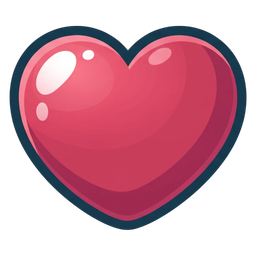
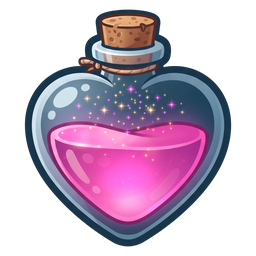
Iksir tarifi (sirali, tamamlaninca kazana +1 yuva), cadi temali ses efektleri, can ikonu (kalp iksir), Reklamlari Kaldir kalici

diff --git a/js/audio.js b/js/audio.js
@@ -43,21 +43,73 @@
     o.start(start); o.stop(start + dur + 0.05);
   }
 
+  // Filtrelenmiş kısa gürültü patlaması ("puf", "fış" sesleri için)
+  var noiseBuf = null;
+  function noise(start, dur, opts) {
+    opts = opts || {};
+    if (!noiseBuf) {
+      noiseBuf = ctx.createBuffer(1, ctx.sampleRate, ctx.sampleRate);
+      var d = noiseBuf.getChannelData(0);
+      for (var i = 0; i < d.length; i++) d[i] = Math.random() * 2 - 1;
+    }
+    var src = ctx.createBufferSource(), f = ctx.createBiquadFilter(), g = ctx.createGain();
+    src.buffer = noiseBuf;
+    f.type = opts.filter || "bandpass";
+    f.frequency.setValueAtTime(opts.freq || 1200, start);
+    if (opts.freqTo) f.frequency.exponentialRampToValueAtTime(opts.freqTo, start + dur);
+    f.Q.value = opts.q || 1;
+    g.gain.setValueAtTime(0.0001, start);
+    g.gain.exponentialRampToValueAtTime(opts.vol || 0.2, start + (opts.attack || 0.02));
+    g.gain.exponentialRampToValueAtTime(0.0001, start + dur);
+    src.connect(f); f.connect(g); g.connect(sfxGain);
+    src.start(start); src.stop(start + dur + 0.05);
+  }
+
+  // Cadı teması: D minör pentatonik (D F G A C) — müzikle aynı renk
   var SFX = {
-    // Taşa dokunma: yumuşak kabarcık "blup"
-    tap: function (t) { tone(420, t, 0.12, { slideTo: 780, vol: 0.25 }); },
-    // Üçleme: yükselen parlak arpej
+    // Taşa dokunma: tahta "tok" + minik alçak fokurtu
+    tap: function (t) {
+      tone(310, t, 0.07, { type: "triangle", vol: 0.22, attack: 0.003 });
+      tone(180, t + 0.02, 0.1, { slideTo: 300, vol: 0.12 });
+    },
+    // Üçleme: büyülü çan + parıltı
     match: function (t) {
-      [660, 880, 1320].forEach(function (f, i) { tone(f, t + i * 0.06, 0.25, { type: "triangle", vol: 0.2 }); });
+      [587.3, 880, 1174.7].forEach(function (f, i) {
+        tone(f, t + i * 0.05, 0.5, { vol: 0.16, attack: 0.004 });
+        tone(f * 2, t + i * 0.05, 0.25, { vol: 0.04, attack: 0.004 });
+      });
+      noise(t, 0.35, { filter: "highpass", freq: 6000, vol: 0.04 });
     },
-    joker: function (t) { tone(300, t, 0.3, { slideTo: 900, type: "triangle", vol: 0.2 }); },
-    click: function (t) { tone(600, t, 0.06, { vol: 0.15 }); },
-    error: function (t) { tone(200, t, 0.18, { type: "square", vol: 0.08 }); },
+    // Joker: "puf" diye büyü dumanı + yükselen ıslık
+    joker: function (t) {
+      noise(t, 0.4, { freq: 400, freqTo: 2500, q: 0.8, vol: 0.25 });
+      tone(440, t + 0.05, 0.35, { slideTo: 1320, type: "triangle", vol: 0.1 });
+    },
+    click: function (t) { tone(520, t, 0.05, { type: "triangle", vol: 0.14, attack: 0.002 }); },
+    // Hata: boğuk, alçak "tımp"
+    error: function (t) { tone(140, t, 0.2, { slideTo: 100, vol: 0.2 }); },
+    // Tarifte bir adım: küçük çan
+    recipeStep: function (t) {
+      tone(1174.7, t + 0.12, 0.6, { vol: 0.12, attack: 0.003 });
+      tone(1760, t + 0.2, 0.5, { vol: 0.08, attack: 0.003 });
+    },
+    // Tarif tamam: yukarı doğru parıltılı glissando
+    recipe: function (t) {
+      [587.3, 698.5, 784, 880, 1046.5, 1174.7, 1396.9].forEach(function (f, i) {
+        tone(f, t + 0.1 + i * 0.05, 0.4, { vol: 0.1, attack: 0.003 });
+      });
+      noise(t + 0.1, 0.6, { filter: "highpass", freq: 7000, vol: 0.05 });
+    },
+    // Kazandın: D minör arpej, sonunda D majöre "büyülü" çözülme
     win: function (t) {
-      [523, 659, 784, 1046, 1318].forEach(function (f, i) { tone(f, t + i * 0.1, 0.5, { type: "triangle", vol: 0.2 }); });
+      [293.7, 349.2, 440, 587.3].forEach(function (f, i) { tone(f, t + i * 0.11, 0.5, { type: "triangle", vol: 0.16 }); });
+      [293.7, 370, 440, 587.3].forEach(function (f) { tone(f, t + 0.5, 1.4, { vol: 0.1, attack: 0.02 }); });
+      tone(1174.7, t + 0.55, 1.2, { vol: 0.06, attack: 0.005 });
     },
+    // Kaybettin: iksir "fısss" diye söner, inen boğuk notalar
     lose: function (t) {
-      [392, 330, 262].forEach(function (f, i) { tone(f, t + i * 0.18, 0.45, { type: "sine", vol: 0.22 }); });
+      noise(t, 0.7, { freq: 3000, freqTo: 300, q: 0.7, vol: 0.18 });
+      [349.2, 293.7, 220].forEach(function (f, i) { tone(f, t + 0.15 + i * 0.2, 0.5, { vol: 0.16 }); });
     }
   };
 

diff --git a/js/game.js b/js/game.js
@@ -3,6 +3,7 @@
   var boardEl = document.getElementById("board");
   var wrapEl = document.getElementById("boardWrap");
   var trayEl = document.getElementById("tray");
+  var recipeEl = document.getElementById("recipe");
   var bankEl = document.getElementById("bank");
 
   var S = null;        // aktif seviyenin durumu
@@ -26,6 +27,7 @@
       pickSeq: 0,          // sepete atılma sırası (devam ederken en son atılanları bulmak için)
       history: [],         // Geri Al için: sepete atılan son taşlar
       flying: 0,           // uçuş animasyonu süren taş sayısı
+      recipe: makeRecipe(level, built.tiles),
       over: false
     };
     document.getElementById("gameLevel").textContent = level;
@@ -33,8 +35,48 @@
     renderBoard();
     renderTray();
     renderBank();
+    renderRecipe();
     RT.game.renderJokers();
   };
+
+  // ---------- İksir tarifi ----------
+  // Her seviyede sıralı bir tarif: 2 malzeme (10. seviyeden sonra 3), her biri
+  // 1 üçleme. Yalnızca sırası gelen malzemenin eşleşmesi tarifi ilerletir.
+  // Tamamlanınca bu seviye için kazan 1 yuva büyür (bonus; zorunlu değil).
+  function makeRecipe(level, tiles) {
+    var types = [];
+    tiles.forEach(function (t) { if (types.indexOf(t.type) === -1) types.push(t.type); });
+    var steps = RT.shuffle(types).slice(0, level >= 10 ? 3 : 2);
+    return { steps: steps, done: 0, complete: false };
+  }
+
+  function renderRecipe(justDone) {
+    var R = S.recipe;
+    recipeEl.innerHTML = '<span class="r-label">' + RT.t("recipe") + "</span>" +
+      R.steps.map(function (type, i) {
+        var cls = i < R.done ? "done" : (i === R.done ? "next" : "");
+        if (i === justDone) cls += " pop";
+        return (i ? '<i class="r-arrow">›</i>' : "") +
+          '<span class="r-step ' + cls + '">' + RT.tileImg(type, "r-img") + "</span>";
+      }).join("");
+    recipeEl.classList.toggle("complete", R.complete);
+  }
+
+  function recipeMatched(type) {
+    var R = S.recipe;
+    if (R.complete || R.steps[R.done] !== type) return;
+    R.done++;
+    if (R.done === R.steps.length) {
+      R.complete = true;
+      S.trayMax += 1;
+      layout(); renderTray();
+      RT.sfx("recipe");
+      RT.ui.toast(RT.t("recipeDone"));
+    } else {
+      RT.sfx("recipeStep");
+    }
+    renderRecipe(R.done - 1);
+  }
 
   RT.game.isActive = function () { return S && !S.over; };
 
@@ -165,6 +207,7 @@
       RT.sfx("match");
       popEffect();
       renderBank();
+      recipeMatched(type);
     }
   }
 

diff --git a/js/i18n.js b/js/i18n.js
@@ -42,10 +42,12 @@ RT.STRINGS = {
     jokerEmptyTitle: "Joker Bitti", jokerEmptyText: "{name} jokerinden 1 adet al?",
     buyFor: "{c} 🪙 ile Al",
     watchAdJoker: "Reklam İzle (+1 joker)", jokerAdDone: "+1 joker kazandın!", yourCoins: "Bakiyen:",
-    noAdsTitle: "Reklamları Kaldır", noAdsText: "Oyna'ya basınca çıkan reklamlar bir daha çıkmaz.",
+    noAdsTitle: "Reklamları Kaldır", noAdsText: "Oyna'ya basınca çıkan reklamlar kalıcı olarak kalkar.",
     noAdsBought: "Reklamlar kaldırıldı (test)", noAdsOwned: "Reklamsız ✓",
     adFullTitle: "Tam ekran reklam", adFullNote: "Test: gerçek reklam mağaza sürümünde gösterilecek.",
     adTag: "REKLAM", adSkipIn: "Reklamı geç ({s})", adSkip: "Reklamı Geç",
+    recipe: "Tarif", recipeDone: "Tarif tamam! Kazana +1 yuva 🧪",
+    t6Title: "İksir Tarifi", t6Text: "Üstteki tarifi sırayla eşleştir. Sırası gelen malzemenin üçlemesini yaparsan tarif ilerler; tamamlarsan kazanın bu seviye için 1 yuva büyür!",
     nothingToUndo: "Geri alınacak hamle yok",
     trayEmpty: "Kazan boş",
     alreadyExpanded: "Kazan bu seviyede zaten genişletildi",
@@ -100,10 +102,12 @@ RT.STRINGS = {
     jokerEmptyTitle: "Out of Joker", jokerEmptyText: "Buy 1 {name} joker?",
     buyFor: "Buy for {c} 🪙",
     watchAdJoker: "Watch Ad (+1 joker)", jokerAdDone: "+1 joker earned!", yourCoins: "Balance:",
-    noAdsTitle: "Remove Ads", noAdsText: "No more ads when you press Play.",
+    noAdsTitle: "Remove Ads", noAdsText: "Ads when you press Play are gone for good.",
     noAdsBought: "Ads removed (test)", noAdsOwned: "Ad-free ✓",
     adFullTitle: "Full-screen ad", adFullNote: "Test: real ads appear in the store version.",
     adTag: "AD", adSkipIn: "Skip ad ({s})", adSkip: "Skip Ad",
+    recipe: "Recipe", recipeDone: "Recipe complete! +1 cauldron slot 🧪",
+    t6Title: "Potion Recipe", t6Text: "Match the recipe at the top in order. Make a triple of the next ingredient to advance; finish it and your cauldron grows 1 slot for this level!",
     nothingToUndo: "Nothing to undo",
     trayEmpty: "Cauldron is empty",
     alreadyExpanded: "Cauldron already expanded this level",

diff --git a/css/style.css b/css/style.css
@@ -253,6 +253,31 @@ img { -webkit-user-drag: none; user-select: none; }
 @keyframes shake { 25% { transform: rotate(-2deg); } 50% { transform: rotate(2deg); } 75% { transform: rotate(-1deg); } }
 .flyer { position: fixed; z-index: 9999; pointer-events: none; --tile: 44px; }
 
+/* ---------- İksir tarifi şeridi ---------- */
+.recipe {
+  align-self: center; display: flex; align-items: center; gap: 6px;
+  margin: 0 12px 2px; padding: 5px 12px 5px 10px; border-radius: 16px;
+  background: linear-gradient(#fff6de, #efd9a6); border: 2.5px solid var(--outline);
+  box-shadow: 0 4px 0 var(--outline); transition: background .3s;
+}
+.recipe .r-label { font-weight: 800; font-size: 15px; color: var(--outline); margin-right: 2px; }
+.recipe .r-arrow { font-style: normal; font-weight: 800; color: #a8895a; }
+.r-step {
+  width: 38px; height: 38px; border-radius: 10px; display: grid; place-items: center;
+  background: rgba(255,255,255,.6); border: 2px dashed #c9ad7a; position: relative;
+  filter: grayscale(.6) opacity(.7);
+}
+.r-step .r-img { width: 84%; height: 84%; object-fit: contain; }
+.r-step.next { filter: none; border: 2px solid var(--coral); box-shadow: 0 0 0 3px rgba(255,138,61,.3); animation: bob 1.6s ease-in-out infinite; }
+.r-step.done { filter: none; border: 2px solid #3fb950; background: #e6ffe9; }
+.r-step.done::after {
+  content: "✓"; position: absolute; right: -6px; bottom: -6px; width: 18px; height: 18px; border-radius: 50%;
+  background: #3fb950; color: var(--white); font-size: 12px; font-weight: 800; display: grid; place-items: center;
+  border: 2px solid var(--outline);
+}
+.r-step.pop { animation: pop .35s; }
+.recipe.complete { background: linear-gradient(#e6ffe9, #b9f0c4); }
+
 /* ---------- Bekleme alanı (Kepçeyle Al) ---------- */
 .bank {
   display: flex; justify-content: center; gap: 6px; min-height: 0; height: 0;

diff --git a/index.html b/index.html
@@ -10,7 +10,7 @@
   <link rel="manifest" href="manifest.webmanifest">
   <link rel="preconnect" href="https://fonts.googleapis.com">
   <link href="https://fonts.googleapis.com/css2?family=Baloo+2:wght@500;700;800&display=swap" rel="stylesheet">
-  <link rel="stylesheet" href="css/style.css?v=8">
+  <link rel="stylesheet" href="css/style.css?v=10">
 </head>
 <body>
   <!-- Arka plan: gece moru gradyan + yükselen kazan kabarcıkları (dekoratif) -->
@@ -65,6 +65,9 @@
         </div>
       </header>
 
+      <!-- İksir tarifi: sırayla eşleştirilecek malzemeler -->
+      <div id="recipe" class="recipe"></div>
+
       <div id="boardWrap"><div id="board"></div></div>
 
       <!-- Kepçeyle Al jokeriyle çıkarılan, eşlerini bekleyen kilitli taşlar -->
@@ -89,11 +92,11 @@
     <div id="toast" class="toast" hidden></div>
   </div>
 
-  <script src="js/i18n.js?v=8"></script>
-  <script src="js/storage.js?v=8"></script>
-  <script src="js/audio.js?v=8"></script>
-  <script src="js/level.js?v=8"></script>
-  <script src="js/game.js?v=8"></script>
-  <script src="js/ui.js?v=8"></script>
+  <script src="js/i18n.js?v=10"></script>
+  <script src="js/storage.js?v=10"></script>
+  <script src="js/audio.js?v=10"></script>
+  <script src="js/level.js?v=10"></script>
+  <script src="js/game.js?v=10"></script>
+  <script src="js/ui.js?v=10"></script>
 </body>
 </html>

diff --git a/js/ui.js b/js/ui.js
@@ -394,6 +394,7 @@
       { e: '<span class="t-tray">' + ["frog", "frog", "bat", "potion", "potion", "eye"].map(function (n) { return RT.tileImg(n, "t-mini"); }).join("") + "<i></i></span>", k: "t2" },
       { e: '<span class="t-layers"><b>' + RT.tileImg("owl", "t-face") + '</b><b class="dim">' + RT.tileImg("candle", "t-face") + "</b></span>", k: "t3" },
       { e: "", k: "t4", extra: J("undo", "jUndo", "t4Undo") + J("remove", "jRemove", "t4Remove") + J("shuffle", "jShuffle", "t4Shuffle") + J("expand", "jExpand", "t4Expand") },
+      { e: '<span class="recipe t-recipe"><span class="r-step done">' + RT.tileImg("frog", "r-img") + '</span><i class="r-arrow">›</i><span class="r-step next">' + RT.tileImg("bat", "r-img") + '</span><i class="r-arrow">›</i><span class="r-step">' + RT.tileImg("potion", "r-img") + "</span></span>", k: "t6" },
       { e: "🏆", k: "t5" }
     ];
     var s = steps[step], last = step === steps.length - 1;

diff --git a/PLAN.md b/PLAN.md
@@ -14,7 +14,8 @@ Yanglegeyang tarzı üçlü eşleştirme oyunu. Kardeş proje "Triple Match – 
 - **Reklamları Kaldır:** Var, tek seferlik satın alım. Zorunlu reklamları kaldırır; ödüllü reklamlar kalır.
 - **Ekonomi:** Jokerler coinle veya ödüllü reklamla alınır (ödüllü reklam, kullanıcının onayladığı ücretsiz kaynak). Coin başka ücretsiz yoldan verilmez.
 - **Can (sonradan eklendi, 2026-09-25):** Yumuşak can sistemi: en fazla 5 can, 20 dakikada 1 can dolar, yalnızca kaybedince 1 can gider (seviyeden çıkmak can götürmez). Can: reklamla +1 (sınırsız) veya coinle (eksik can başına 20, tamamı en fazla 50). Cansız oyuncuya Oyna reklamı gösterilmez, can penceresi açılır.
-- **Reklamları Kaldır fiyatı:** Şimdilik $5,49 / ₺79,99 (kullanıcı onayı bekliyor).
+- **Reklamları Kaldır:** Kalıcı, tek seferlik, $5,49 / ₺79,99 (kullanıcı onayladı). Oyna reklamları kalkar; can/joker için ödüllü reklam isteğe bağlı kalır. (1 aylık seçenek konuşuldu; abonelik altyapısı gerektirdiği ve oyuncuyu kızdıracağı için kalıcıda karar kılındı.)
+- **İksir tarifi:** Her seviyede sıralı bir tarif (2-3 malzeme, her biri 1 üçleme). Sırası gelen malzeme eşleşince tarif ilerler; tamamlanınca bu seviye için kazana +1 yuva. Ekonomiye (coin/joker) dokunmaz.
 - **Joker adı:** "Taşı Kaldır" → "Kepçeyle Al" (EN "Scoop Out"); ilk 3 malzemeyi kazandan yukarı alır.
 - **İmza mekanik:** İksir tarifi, bonus hedef (zorunlu değil). Zorunlu tarif seviyeleri ileride eklenebilir.
 - **Başlangıç:** Blue Ocean kodunun kopyası (git geçmişi olmadan). Can ve takvim sökülür; kazan teması ve tarif eklenir. Blue Ocean'a dokunulmaz.
